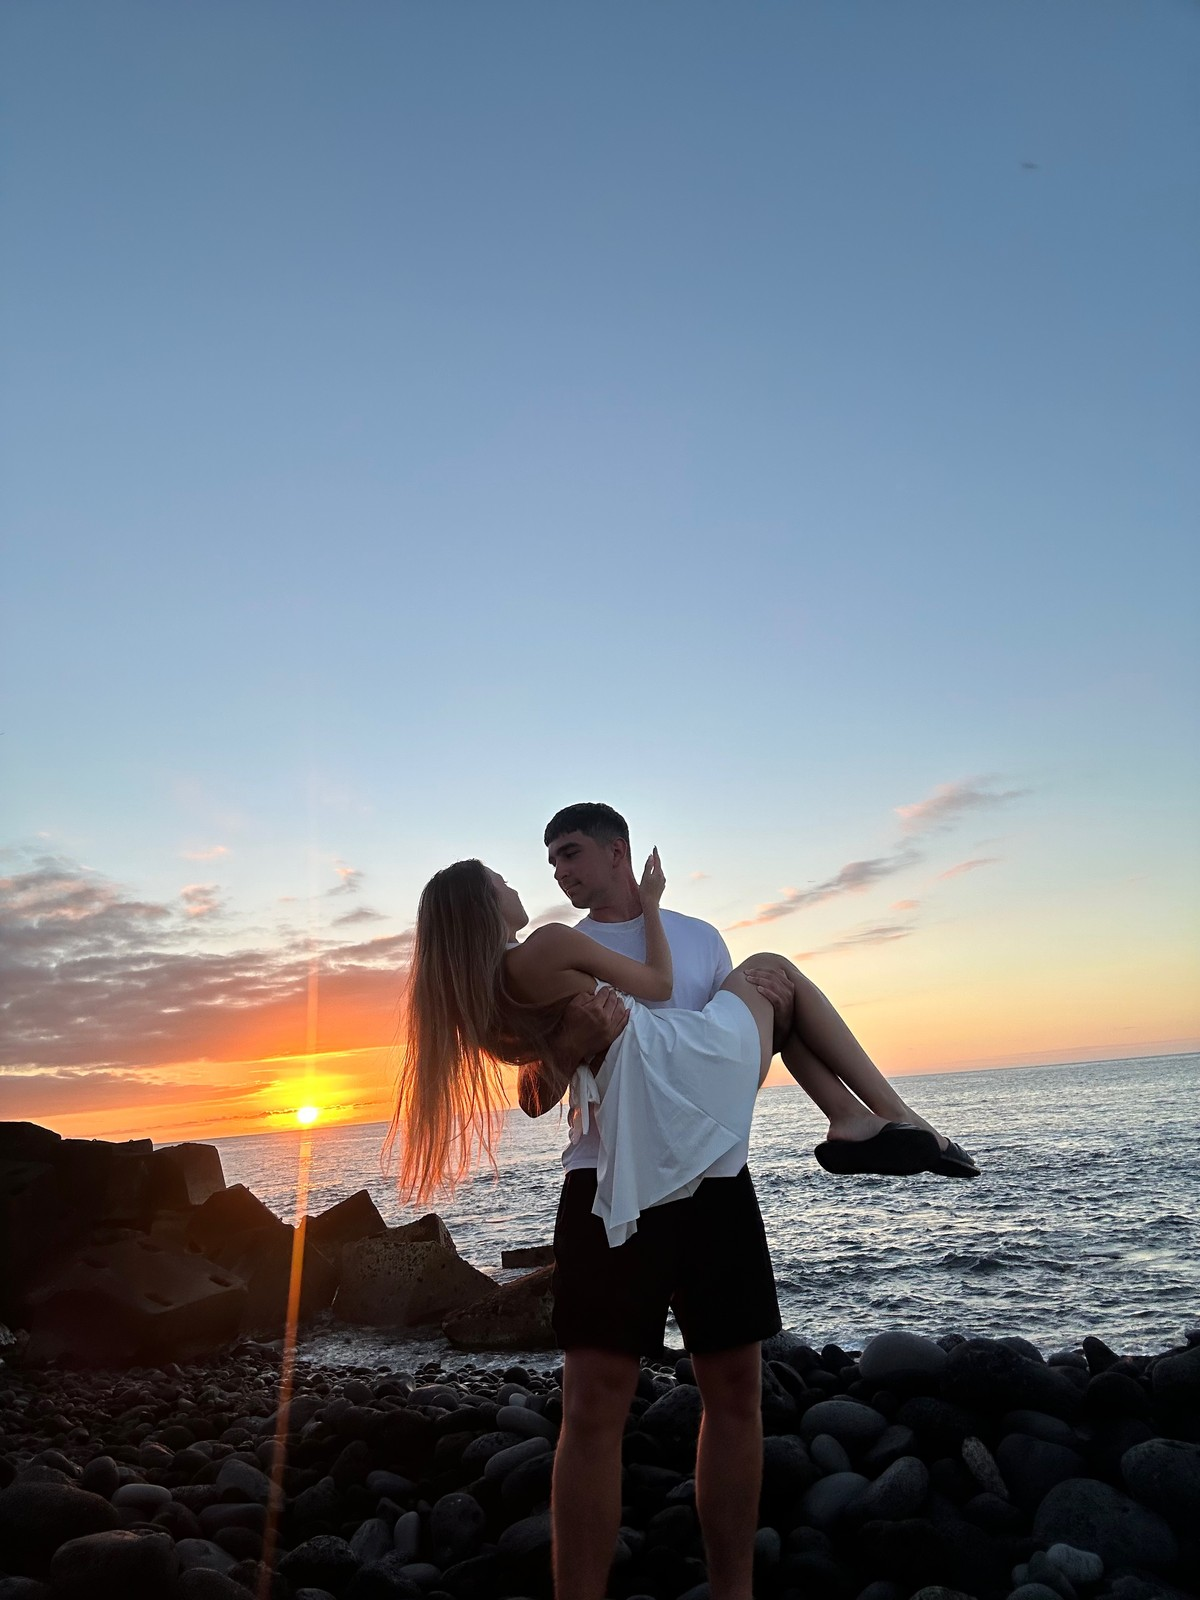
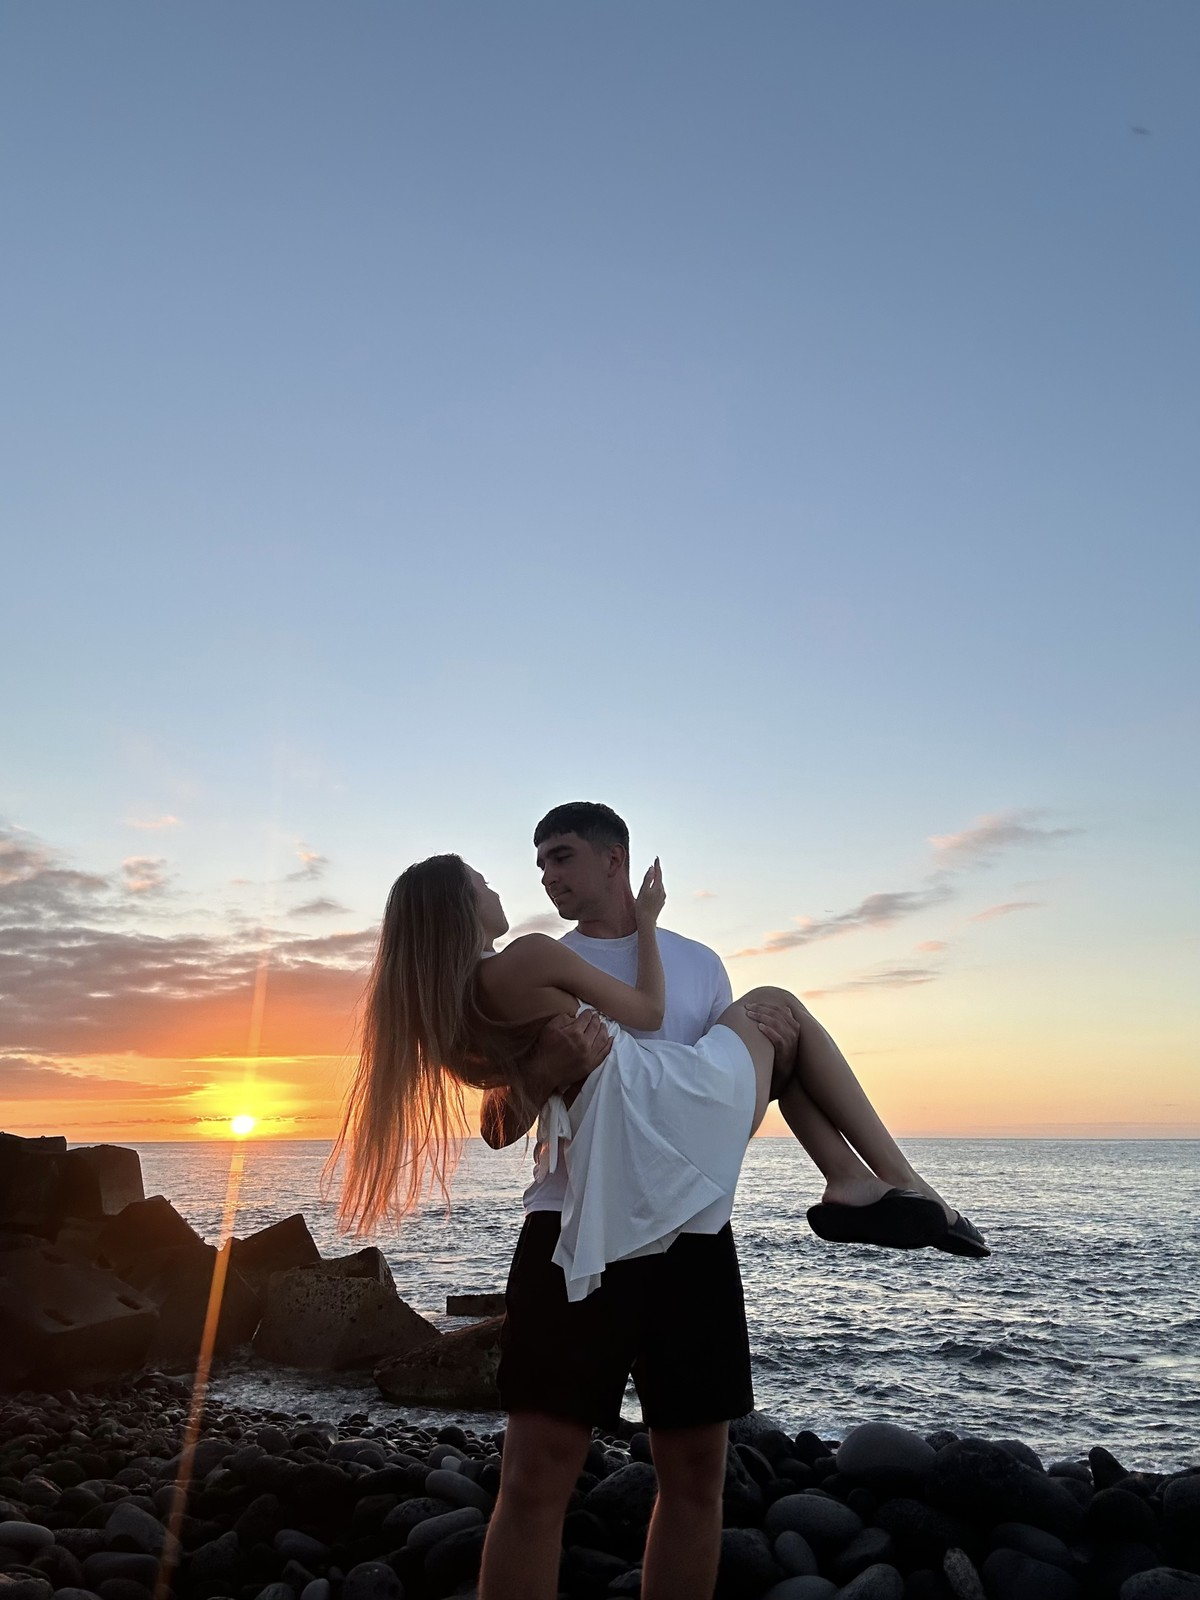
wip5

diff --git a/src/controllers/useScrollRestoration.js b/src/controllers/useScrollRestoration.js
@@ -1,0 +1,24 @@
+import { useEffect } from 'react';
+
+// ─────────────────────────────────────────────────────────
+// CONTROLLER
+// Браузер за замовчуванням намагається відновити попередню
+// позицію скролу після перезавантаження сторінки (history
+// scroll restoration). У парі з mandatory scroll-snap це
+// "притягує" сторінку до найближчої секції замість початку —
+// виглядає, ніби сторінка сама перекидає на іншу секцію.
+// Вимикаємо це й завжди стартуємо з початку.
+// ─────────────────────────────────────────────────────────
+export function useScrollRestoration() {
+  useEffect(() => {
+    if (!('scrollRestoration' in window.history)) return undefined;
+
+    const previous = window.history.scrollRestoration;
+    window.history.scrollRestoration = 'manual';
+    window.scrollTo(0, 0);
+
+    return () => {
+      window.history.scrollRestoration = previous;
+    };
+  }, []);
+}

diff --git a/src/App.jsx b/src/App.jsx
@@ -4,11 +4,14 @@ import { Greeting } from './views/Greeting';
 import { Venue } from './views/Venue';
 import { DressCode } from './views/DressCode';
 import { ScrollProgress } from './views/ScrollProgress';
+import { useScrollRestoration } from './controllers/useScrollRestoration';
 
 // Композиційний корінь: збирає 4 секції в порядку скролу.
 // Дані (модель) течуть вниз пропсами; кожен View сам підʼєднує
 // потрібні контролери (useCountdown, useScrollReveal, useSectionProgress).
 export default function App() {
+  useScrollRestoration();
+
   return (
     <>
       <ScrollProgress sections={wedding.sections} theme={wedding.theme} />
